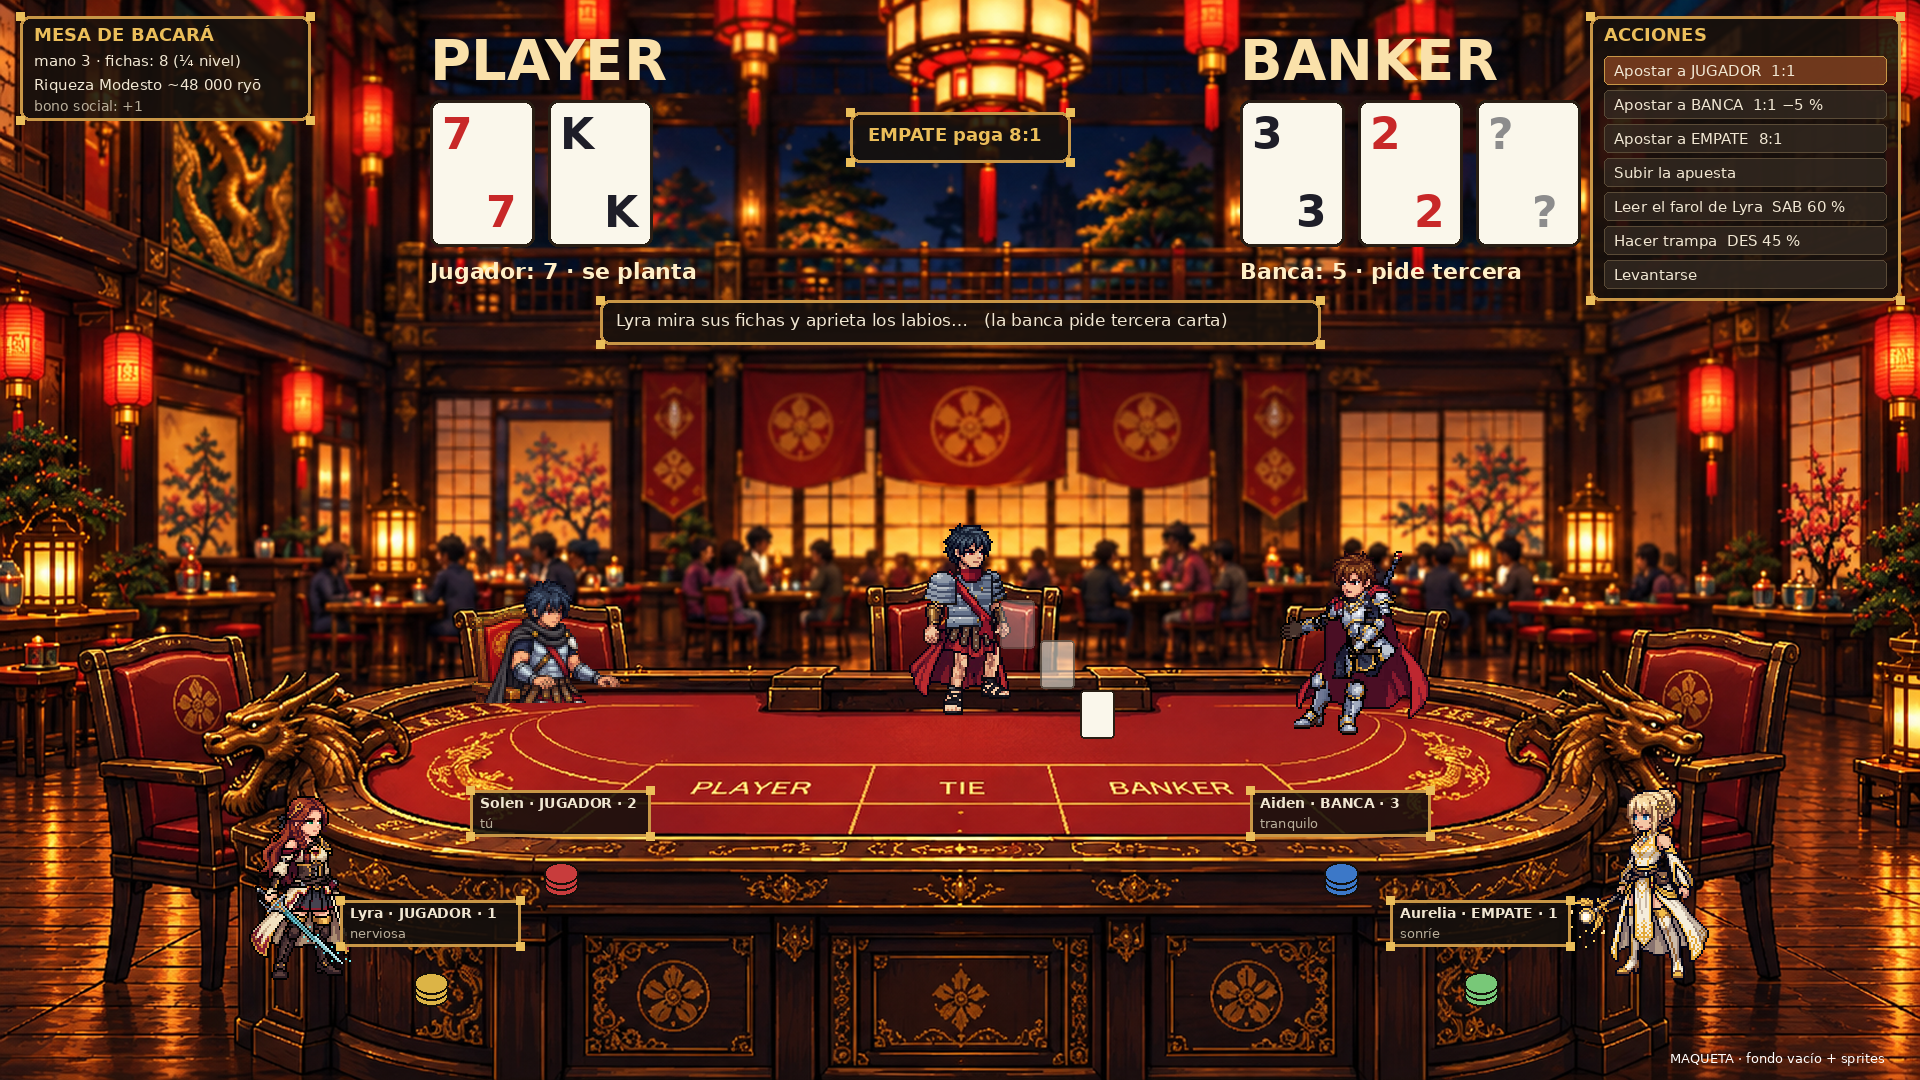
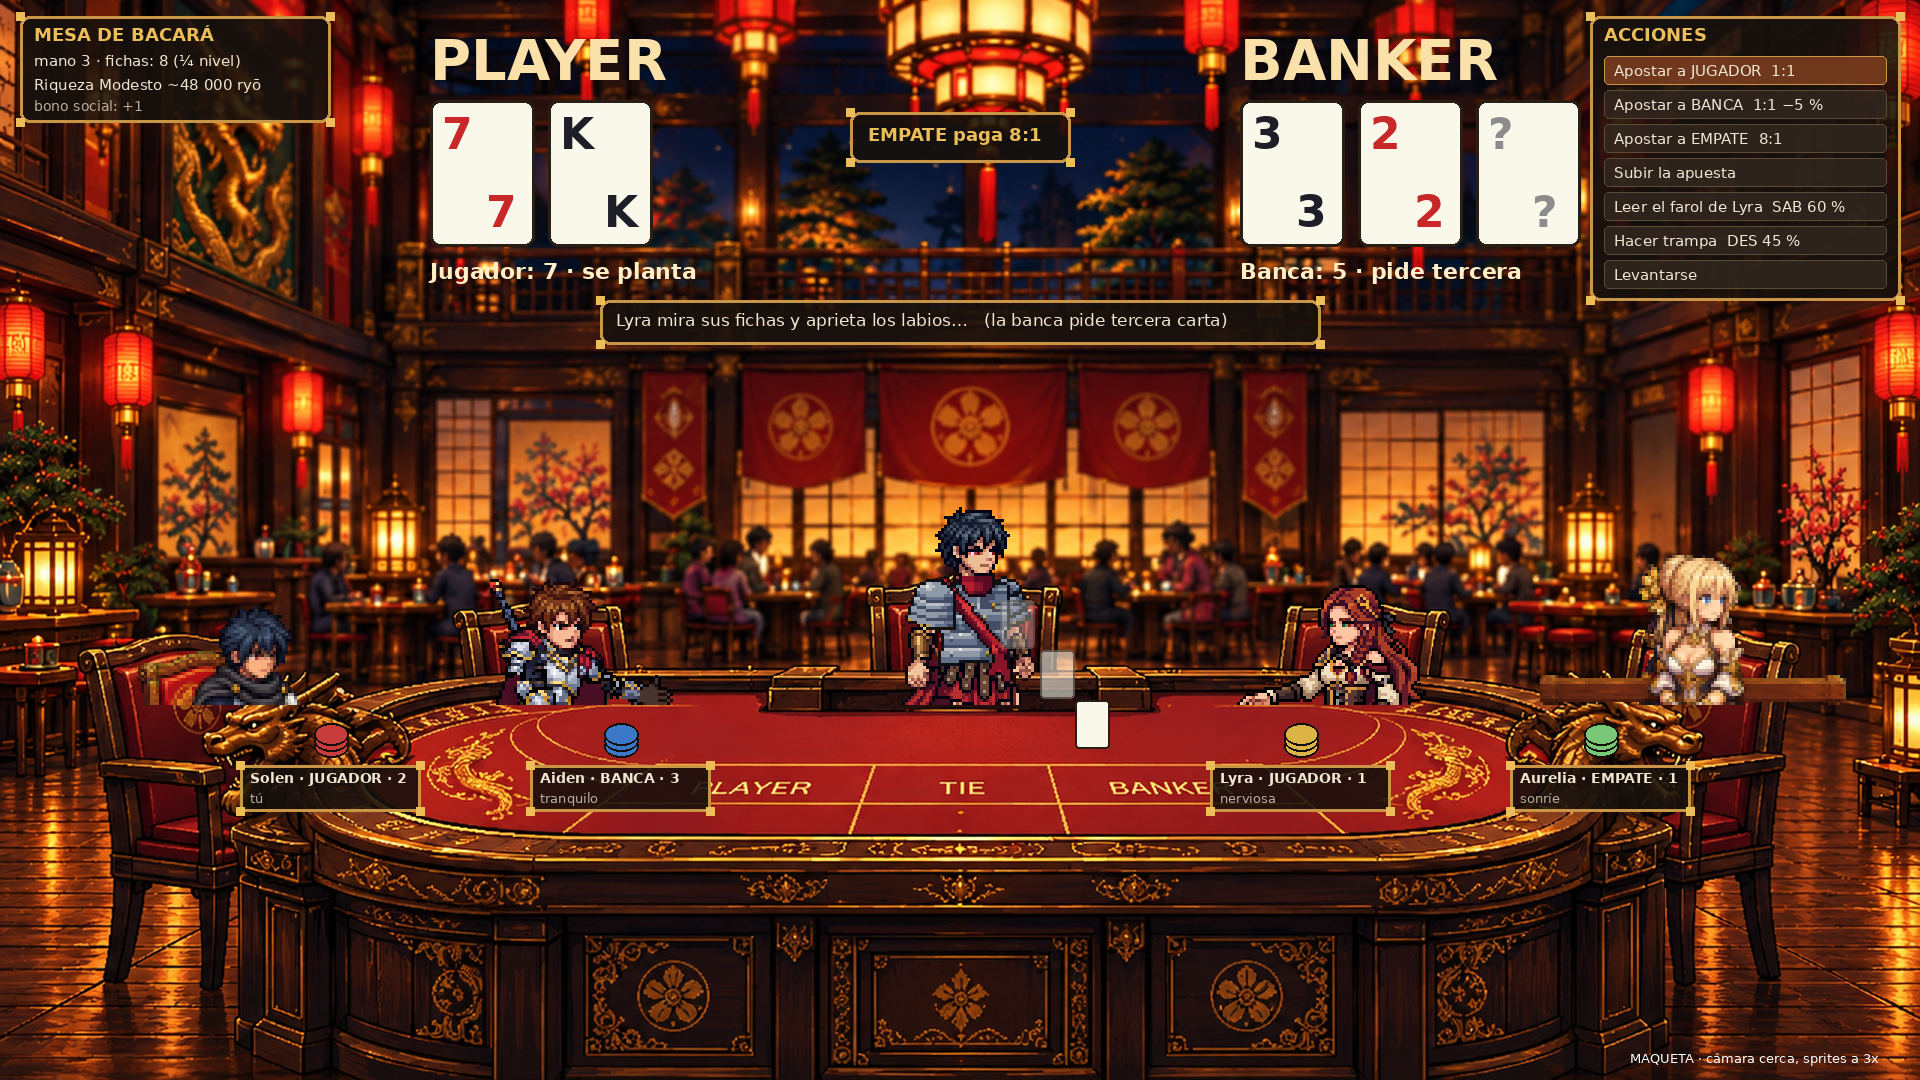
Baccarat table perspective: the owner's rule (everyone along the far rim, camera near, table edge over laps); mock redone

diff --git a/docs/reference/README.md b/docs/reference/README.md
@@ -94,3 +94,4 @@ Every deliverable puts his crop and our frame side by side at the same scale.
 | `bacara-backdrop-owner-reference.png` | The baccarat close-up backdrop, empty (2026-10-28, 1920x1080, his generator from the target picture): the table with PLAYER / TIE / BANKER on the cloth, the dragon heads, five empty carved chairs, the room and its people blurred behind. **Approved** as the painted-complete backdrop of the table scene (sprites and UI on top; mock `docs/mockups/bacara-backdrop-party-mockup.png`). |
 | `poses/aurelia-sit-bench-clean-owner-reference.png` (and `-v1`) | Aurelia seated on the bench, alone on magenta (2026-10-28, 1386x1148 and 802x707, his generator from the pose card): knees together, hands in her lap, 3/4 to the left, the bench under her. The source for the female `sit_bench` pose (rig job); meanwhile shrunk to game scale as a one-piece preview in the carne asada mock. |
 | `poses/solen-sit-table-owner-reference.png` | Solen seated at the table (2026-10-28, 1316x1180, his generator from the pose card): in the carved red chair, 3/4 to the right, both hands resting where the table edge is, back straight; cut at the shins (hidden by the table in the scene). Source for the male `sit_table` pose; previewed at game scale in the baccarat mock, the table edge drawn over his lap. |
+| `bacara-scene-target-v2-owner-reference.png` | The baccarat scene again from his generator (2026-10-28, 1674x941): the camera nearer, the four players seated along the far rim with their bodies above the cloth, a dealer in a red kimono in the middle, the near rim empty, the UI on top. The owner: "tu perspectiva no está correcta, debería ser así". The perspective rule of the table scene (WORLD_DESIGN 5b). |

diff --git a/docs/WORLD_DESIGN.md b/docs/WORLD_DESIGN.md
@@ -441,6 +441,16 @@ medio **repartiendo con su animación** (la carta sale de su mano y cae en el ta
 medio. Maqueta: `docs/mockups/bacara-close-up-mockup.png`. Regla del dueño para toda maqueta y
 ejemplo del juego: **solo Solen, Romano, Aiden, Lyra y Aurelia**; nadie más.
 
+**La perspectiva de la mesa** (el dueño, 2026-10-28, con su imagen
+`docs/reference/bacara-scene-target-v2-owner-reference.png`: *"tu perspectiva no está correcta,
+debería ser así"*): la cámara está **cerca**; **todos los jugadores se sientan a lo largo del
+borde lejano** del tapete, de cara al espectador, con el cuerpo por encima de la mesa, y el
+crupier en medio; **nadie en las cabeceras ni en el borde cercano**, que queda libre para las
+cartas y fichas. Los sprites van a **3×** (la escala del primer plano) y **el borde de la mesa se
+dibuja por encima de ellos** (una máscara del fondo pintado que cubre el regazo), así que las
+poses sentadas solo necesitan ser buenas de la cintura para arriba. Maqueta con esa regla:
+`docs/mockups/bacara-backdrop-party-mockup.png`.
+
 Nuevas preguntas para el dueño, al final (W13–W15).
 
 ---
